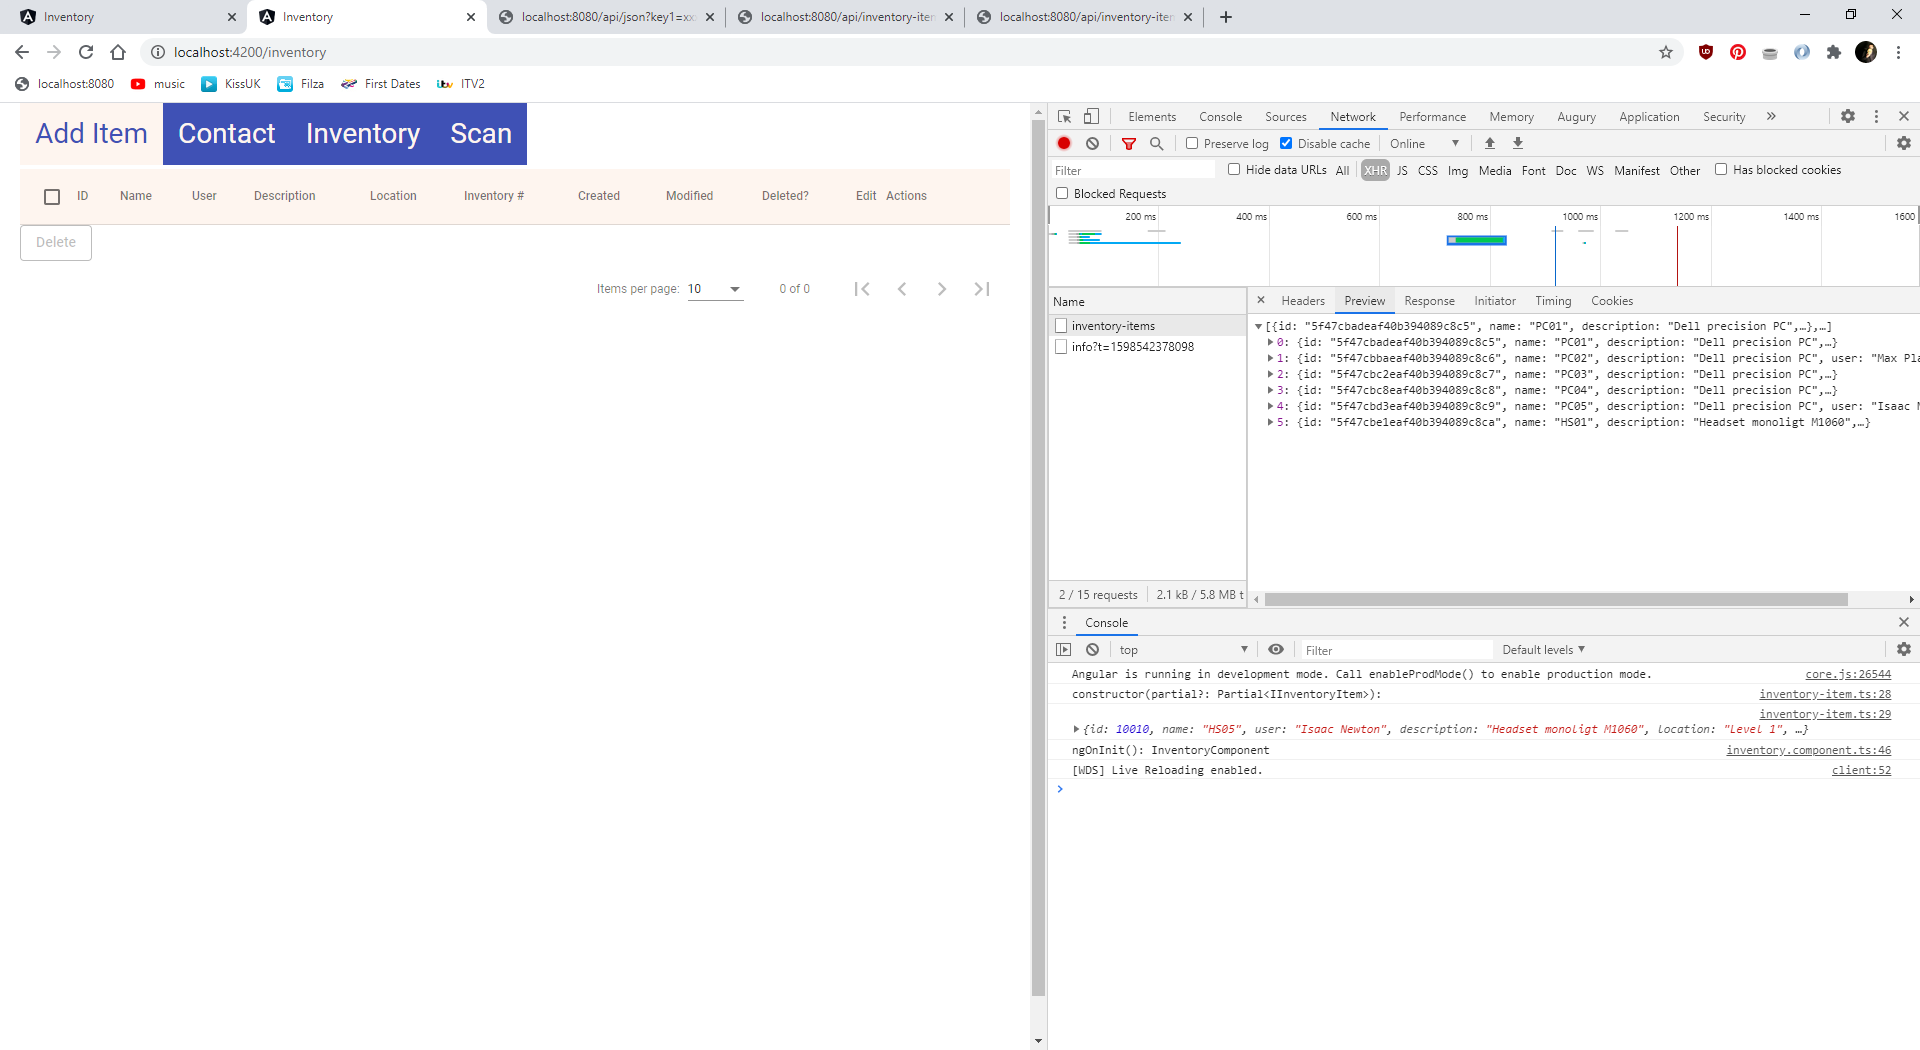
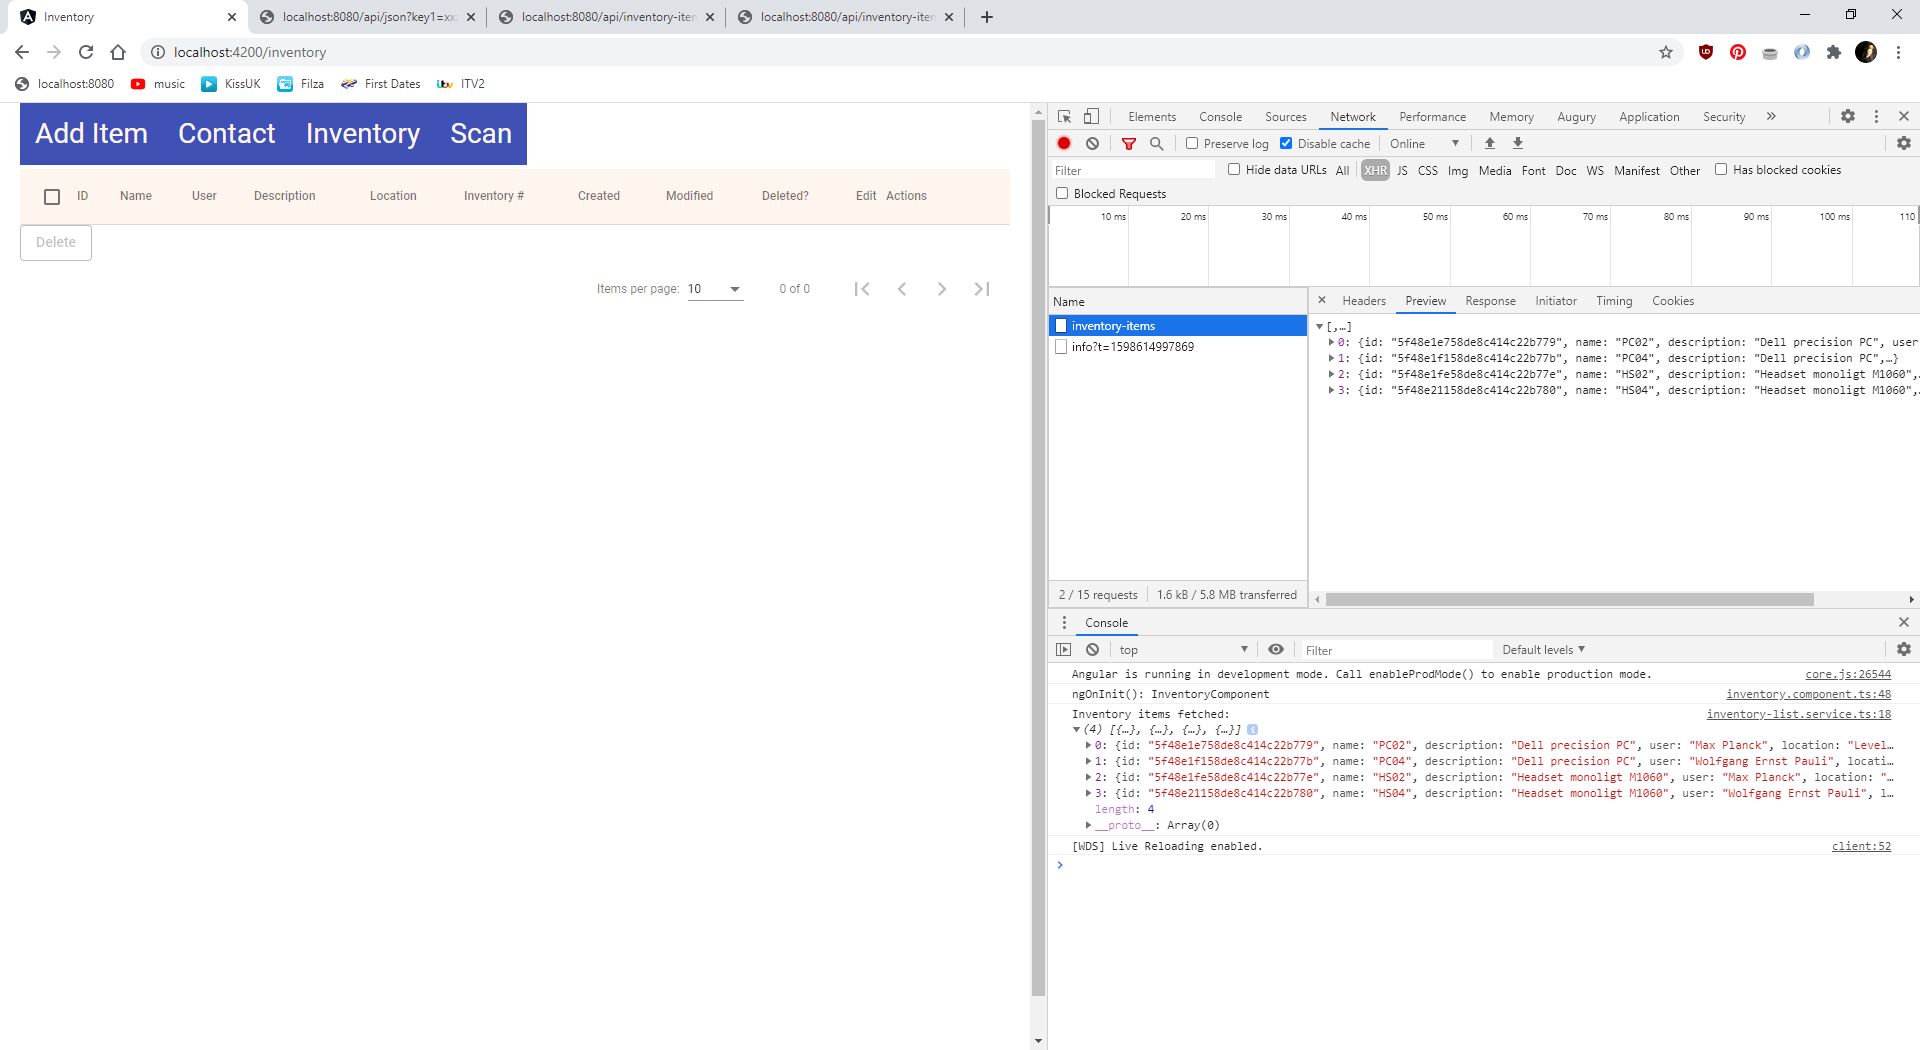
Fixed item filtering when using "activeOnly" as request parameter in URL.

diff --git a/Code/8/Inventory/src/app/menu-items/inventory/inventory.component.ts b/Code/8/Inventory/src/app/menu-items/inventory/inventory.component.ts
@@ -2,10 +2,14 @@ import { Component, OnInit, ViewChild } from '@angular/core';
 
 import { IInventoryItem, InventoryItem } from 'src/app/app-logic/inventory-item';
 import { InventoryMockService } from '../../app-logic/inventory-mock.service';
+import { InventoryListService } from '../../app-logic/inventory-list.service';
 import { MatTableDataSource, MatTable } from '@angular/material/table'
 import { MatPaginator } from '@angular/material/paginator';
 import { MatSort } from '@angular/material/sort';
 import { SelectionModel } from '@angular/cdk/collections';
+// 8:
+import { finalize, tap } from 'rxjs/operators';
+import { merge } from 'rxjs';
 
 @Component({
 	selector: 'app-inventory',
@@ -37,14 +41,55 @@ export class InventoryComponent implements OnInit {
 	allowMultiSelect: boolean = true;
 	selection = new SelectionModel<Element>(this.allowMultiSelect, this.initialSelection);
 	@ViewChild(MatTable, { static: true }) table;
+	isLoading: boolean;
 
-	constructor(private inventoryMockService: InventoryMockService) { }
+	constructor(
+		private inventoryMockService: InventoryMockService,
+		private inventoryListService: InventoryListService
+	) { }
 
 	ngOnInit(): void {
 		console.log('ngOnInit(): InventoryComponent');
-		this.inventoryItems = new MatTableDataSource<IInventoryItem>(this.inventoryMockService.getData());
-		this.inventoryItems.paginator = this.paginator;
-		this.inventoryItems.sort = this.sort;
+
+		// Inventory Mock
+		// this.inventoryItems = new MatTableDataSource<IInventoryItem>(this.inventoryMockService.getData());
+		// this.inventoryItems.paginator = this.paginator;
+		// this.inventoryItems.sort = this.sort;
+
+		// Inventory List
+		this.isLoading = true;
+		this.inventoryListService.getData()
+			.pipe(
+				finalize(() => {
+					this.isLoading = false;
+				})
+			)
+			.subscribe((data) => {
+				this.inventoryItems = data;
+			}, (error) => {
+				console.log('Table could not be filled with data:', error);
+			});
+
+		// Merge
+		merge(this.paginator.page, this.sort.sortChange)
+			.pipe(
+				tap(() => {
+					this.isLoading = true;
+					this.inventoryListService.getData()
+						.pipe(
+							finalize(() => {
+								this.isLoading = false;
+							})
+						)
+						.subscribe((data) => {
+							this.inventoryItems = data;
+						}, (error) => {
+							console.log('Table could not be filled with data', error);
+						});
+				})
+			)
+			.subscribe()
+
 	}
 
 	selectRow(row): void {

diff --git a/Code/8/Server/src/routes/inventory-items.route.ts b/Code/8/Server/src/routes/inventory-items.route.ts
@@ -22,19 +22,27 @@ async function getInventoryItems(
 	res: Response,
 	next: NextFunction
 ) {
-	if (!req.em || !(req.em instanceof EntityManager))
+	if (!req.em || !(req.em instanceof EntityManager)) {
 		return next(Error('EntityManager not available'));
+	}
+
+	console.log('route.ts, getInventoryItems():');
+	console.log('req.baseUrl:', req.baseUrl);
+	console.log('req.originalUrl:', req.originalUrl);
+	console.log('route.ts, getInventoryItems()^');
 
 	let inventoryItems: Error | InventoryItem[] | null;
 	let count = 0;
+	let active = req.query.activeOnly ? true : false;
 
 	let page = req.query.pageNumber
 		? parseInt(req.query.pageNumber.toString())
 		: 1;
-	let limit = req.query.pageSize ? parseInt(req.query.pageSize.toString()) : 5;
+	// let limit = req.query.pageSize ? parseInt(req.query.pageSize.toString()) : 5;
+	let limit = req.query.pageSize ? parseInt(req.query.pageSize.toString()) : 100;
 	try {
 		[inventoryItems, count] = await Promise.all([
-			inventoryItemService.getInventoryItems(req.em, page, limit),
+			inventoryItemService.getInventoryItems(req.em, page, limit, active),
 			inventoryItemService.countInventoryItems(req.em),
 		]);
 	} catch (ex) {

diff --git a/Code/8/Inventory/src/app/menu-items/inventory/inventory.component.html b/Code/8/Inventory/src/app/menu-items/inventory/inventory.component.html
@@ -1,4 +1,9 @@
 <div>
+
+	<div class="spinner-container" *ngIf="isLoading">
+		<mat-spinner></mat-spinner>
+	</div>
+
 	<table mat-table [dataSource]="inventoryItems" matSort>
 
 		<!-- Selection checkbox -->
@@ -72,9 +77,9 @@
 			<td mat-cell *matCellDef="let row">
 				<!-- <button mat-stroked-button color="accent" [disabled]="!checkIsRowSelected(row)" (click)="editInventoryItem(row)"> -->
 				<!-- <a routerLink="/edit/{{ row.id }}"> -->
-					<button *ngIf="canEdit(row)" mat-stroked-button color="accent" (click)="editInventoryItem(row)">
-						Edit
-					</button>
+				<button *ngIf="canEdit(row)" mat-stroked-button color="accent" (click)="editInventoryItem(row)">
+					Edit
+				</button>
 				<!-- </a> -->
 			</td>
 		</ng-container>
@@ -100,6 +105,11 @@
 		Delete
 	</button>
 
-	<mat-paginator [pageSizeOptions]="[10, 3, 5]" showFirstLastButtons></mat-paginator>
+	<!-- 
+		<mat-paginator [pageSizeOptions]="[10, 3, 5]" showFirstLastButtons></mat-paginator>
+	 -->
+
+	<mat-paginator [pageSize]="5" [pageIndex]="0" [length]="100" [pageSizeOptions]="[10, 3, 5]" showFirstLastButtons>
+	</mat-paginator>
 
 </div>

diff --git a/Code/8/Inventory/src/app/app.module.ts b/Code/8/Inventory/src/app/app.module.ts
@@ -17,10 +17,13 @@ import { MatPaginatorModule } from '@angular/material/paginator';
 import { MatSortModule } from '@angular/material/sort';
 import { MatCheckboxModule } from '@angular/material/checkbox';
 // buttons:
-import {MatButtonModule} from '@angular/material/button';
+import { MatButtonModule } from '@angular/material/button';
 // forms:
 import { FormsModule, ReactiveFormsModule } from '@angular/forms';
 import { MatInputModule } from '@angular/material/input';
+// HTTP:
+import { HttpClientModule } from '@angular/common/http';
+import { MatProgressSpinnerModule } from "@angular/material/progress-spinner";
 
 @NgModule({
 	declarations: [
@@ -40,7 +43,9 @@ import { MatInputModule } from '@angular/material/input';
 		MatButtonModule,
 		FormsModule,
 		ReactiveFormsModule,
-		MatInputModule
+		MatInputModule,
+		HttpClientModule,
+		MatProgressSpinnerModule
 	],
 	providers: [
 		WarehouseService,

diff --git a/Code/8/Server/src/services/inventory-item.service.ts b/Code/8/Server/src/services/inventory-item.service.ts
@@ -25,19 +25,25 @@ async function getInventoryItems(
 	em: EntityManager,
 	page: number,
 	limit: number,
-	activeOnly = false
+	activeOnly: boolean = false,
 ): Promise<Error | InventoryItem[]> {
 	if (!(em instanceof EntityManager)) return Error('invalid request');
 
 	try {
+		console.log('activeOnly:', activeOnly);
 		const items = await em.find(
 			InventoryItem,
-			activeOnly ? {} : { active: true },
+			activeOnly ? { active: true } : {},
+			// {},
 			{ limit: limit, offset: (page - 1) * limit }
 		);
-		console.log('getInventoryItems():');
-		console.log(items);
-		console.log('getInventoryItems()^');
+		console.log('service.ts, getInventoryItems():');
+		// console.log(items);
+		items.forEach(item => {
+			console.log(item.active);
+		});
+		console.log(items.length);
+		console.log('service.ts, getInventoryItems()^');
 		return items;
 	} catch (ex) {
 		return ex;

diff --git a/Code/8/Inventory/src/app/app-logic/inventory-list.service.ts b/Code/8/Inventory/src/app/app-logic/inventory-list.service.ts
@@ -1,0 +1,24 @@
+import { Injectable } from '@angular/core';
+import { HttpClient, HttpParams } from '@angular/common/http';
+import { IInventoryItem } from './inventory-item';
+import { Observable } from 'rxjs';
+import { tap, map, delay } from 'rxjs/operators';
+
+@Injectable({
+	providedIn: 'root',
+})
+export class InventoryListService {
+
+	constructor(private http: HttpClient) { }
+
+	getData() {
+		return this.http.get<IInventoryItem[]>('/api/inventory-items')
+			.pipe(
+				tap((response) => {
+					console.log('Inventory items fetched:', response);
+				}),
+				delay(100 + Math.floor(Math.random() * 900))
+				// delay(2000)
+			);
+	}
+}

diff --git a/Code/8/Inventory/src/app/menu-items/inventory/inventory.component.css b/Code/8/Inventory/src/app/menu-items/inventory/inventory.component.css
@@ -2,3 +2,12 @@ table {
   width: 100%;
   background-color: #fef5ef;
 }
+
+.spinner-container {
+  display: flex;
+  justify-content: center;
+  align-items: center;
+  background-color: #fafafa;
+  box-shadow: 0 5px 5px -3px rgba(0, 0, 0, 0.2),
+    0 8px 10px 1px rgba(0, 0, 0, 0.14), 0 3px 14px 2px rgba(0, 0, 0, 0.12);
+}

diff --git a/Code/8/Server/src/routes/a-json.route.ts b/Code/8/Server/src/routes/a-json.route.ts
@@ -9,6 +9,7 @@ export { setAJsonRoute };
 
 function setAJsonRoute(router: Router): Router {
 	router.get('/', getAJson);
+	router.get('/:key1', getAJson);
 	router.post('/', postAJson);
 
 	return router;
